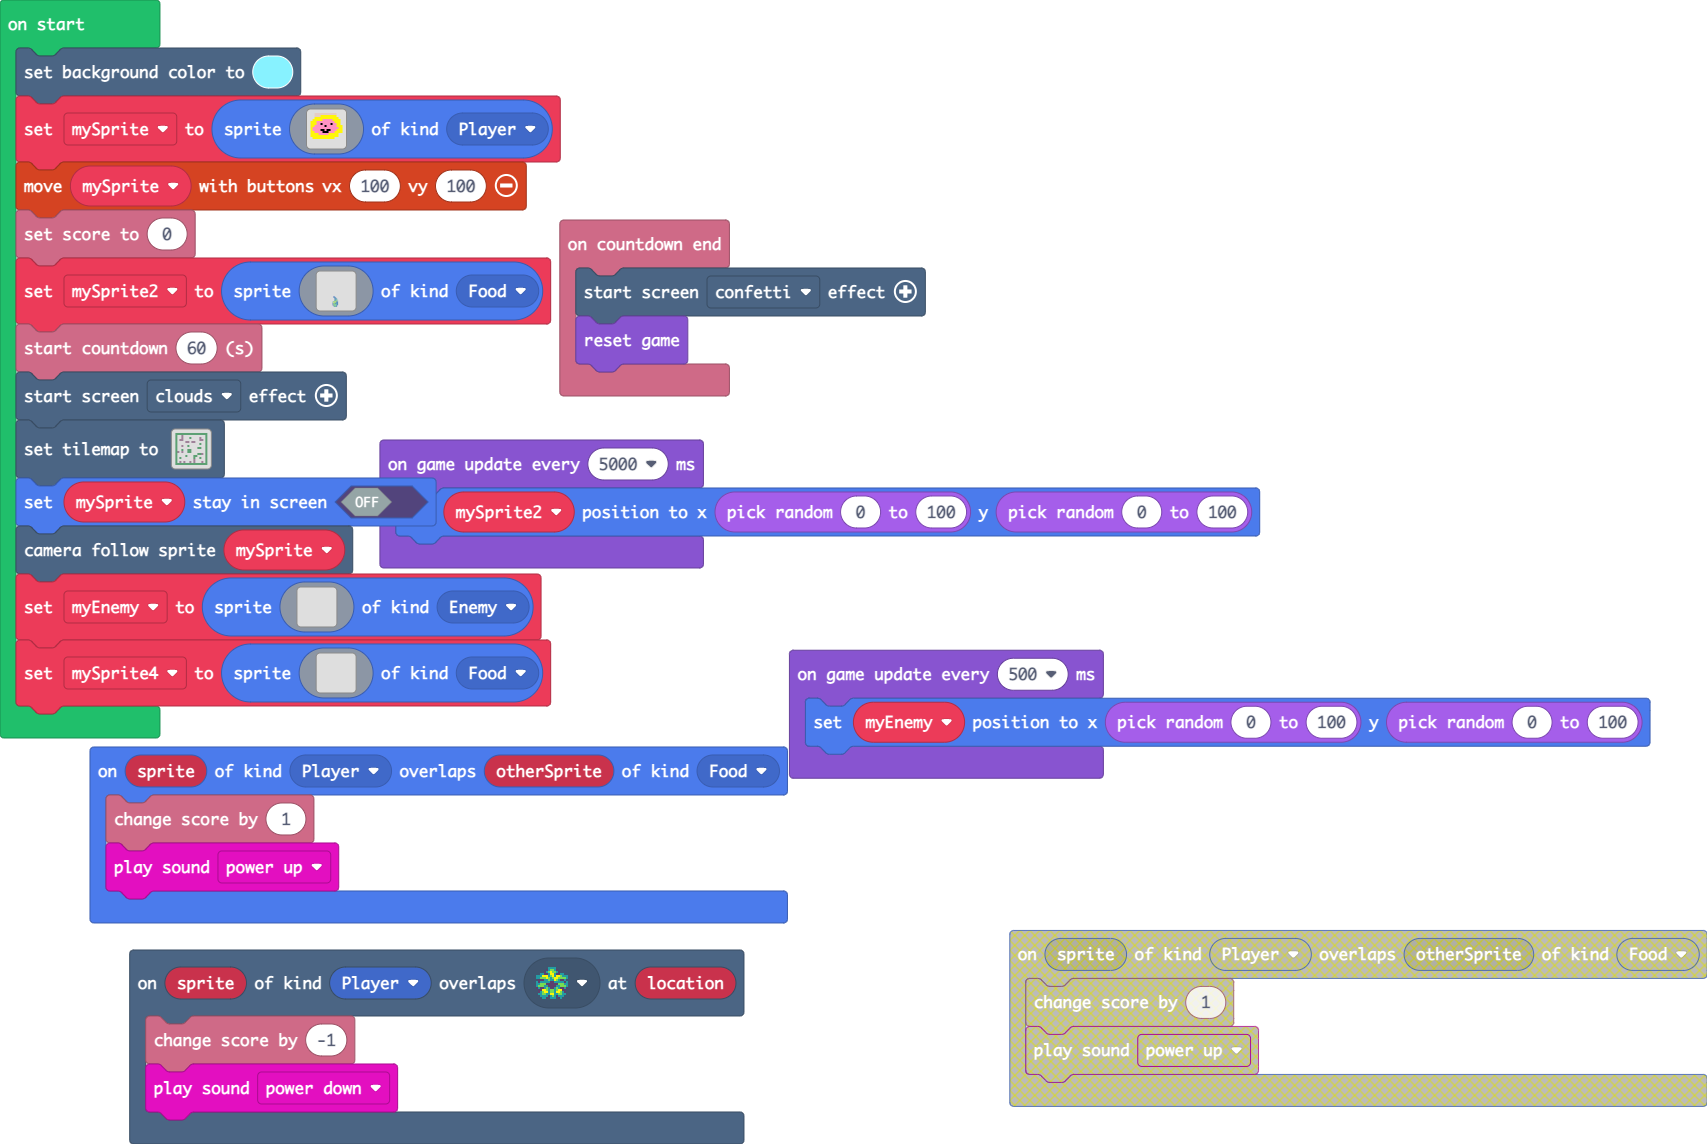
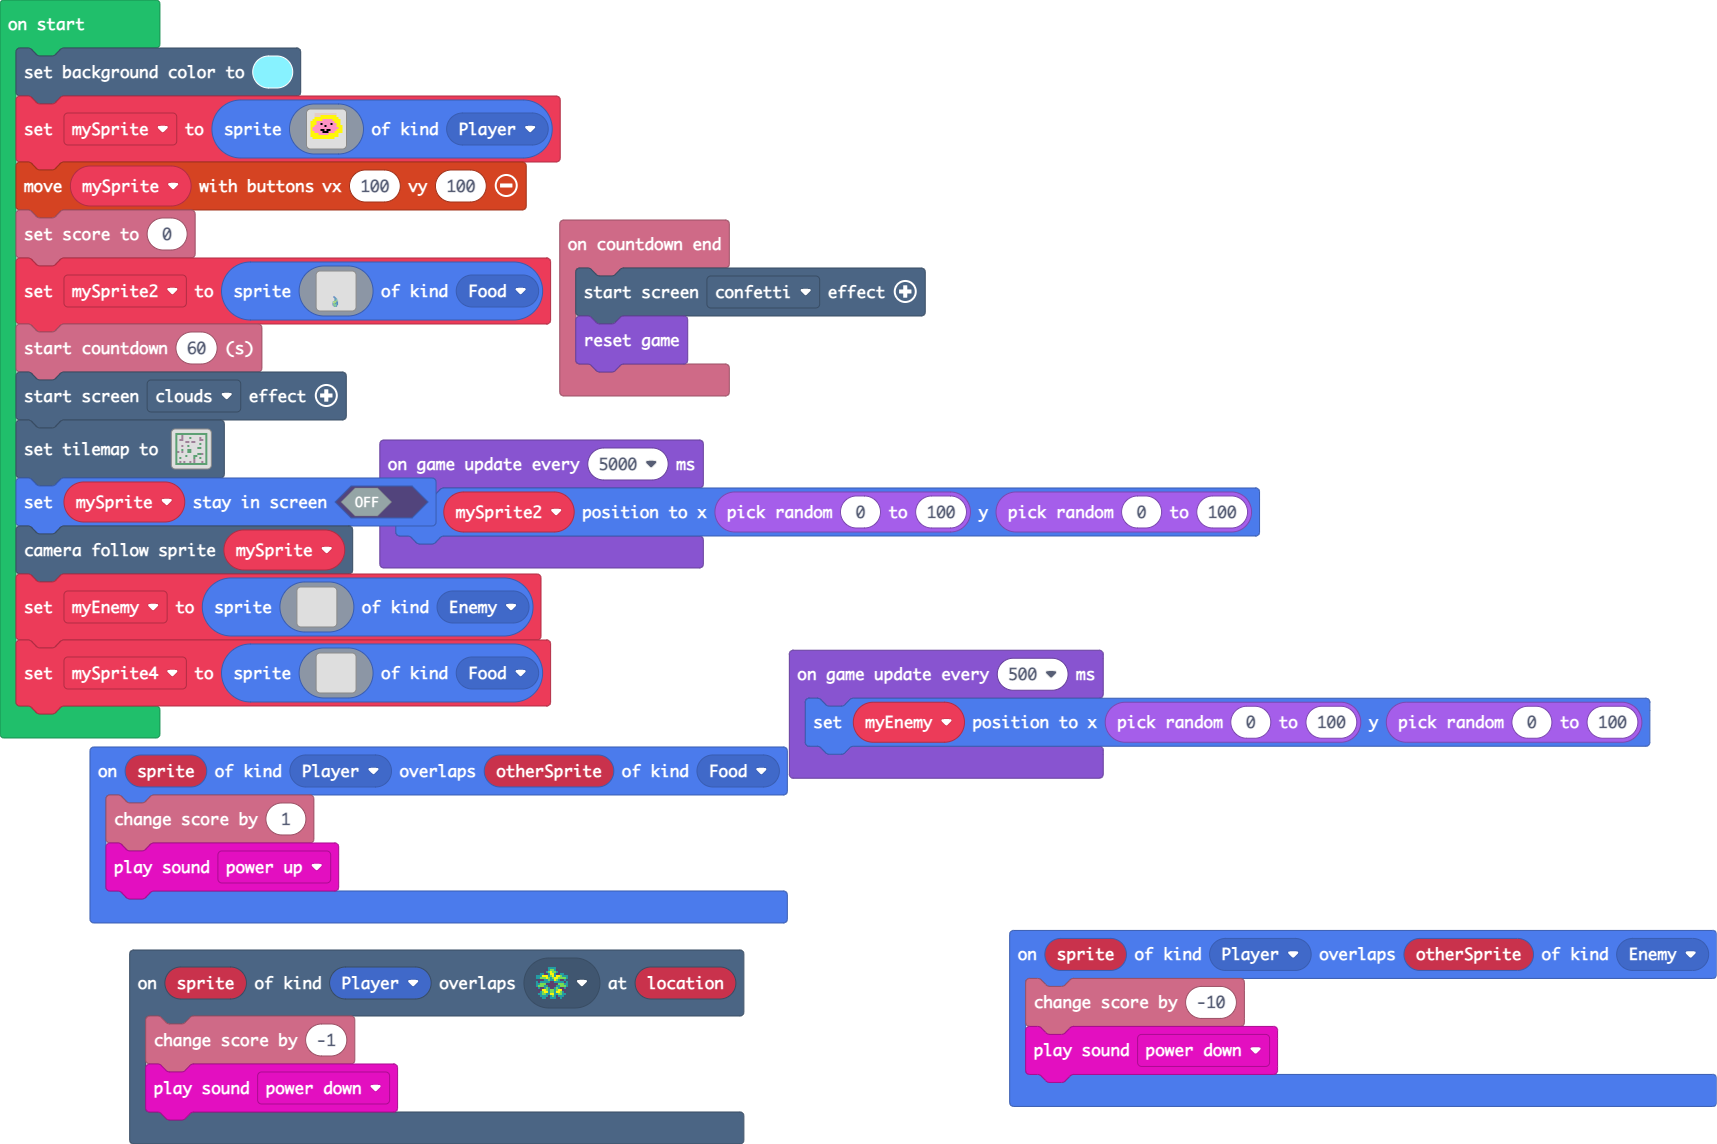
Update main.blocks, main.ts, images.g.jres, images.g.ts

diff --git a/images.g.ts b/images.g.ts
@@ -72,80 +72,40 @@ namespace myImages {
 ......8768......
 `;
             case "image3":return img`
-........................
-........................
-........................
-........................
-..........fffff.........
-........ff1111bff.......
-.......fb1111111bf......
-.......f111111111f......
-......fd1111111ffff.....
-......fd111dd1c111bf....
-......fb11fcdf1b1bff....
-......f11111bfbfbff.....
-......f1b1bdfcffff......
-......fbfbfcfcccf.......
-......ffffffffff........
-.........ffffff.........
-.........ffffff.........
-.........fffffff..f.....
-..........fffffffff.....
-...........fffffff......
-........................
-........................
-........................
-........................
+. . . . . . . . . . . . . . . . 
+. . . . . . . . . . . . . . . . 
+. . . . . . . . . . . . . . . . 
+. . . . . . . . . . . . . . . . 
+. . . . . . . . . . . . . . . . 
+. . . . . . . . . . . . . . . . 
+. . . . . . . . . . . . . . . . 
+. . . . . . . . . . . . . . . . 
+. . . . . . . . . . . . . . . . 
+. . . . . . . . . . . . . . . . 
+. . . . . . . . . . . . . . . . 
+. . . . . . . . . . . . . . . . 
+. . . . . . . . . . . . . . . . 
+. . . . . . . . . . . . . . . . 
+. . . . . . . . . . . . . . . . 
+. . . . . . . . . . . . . . . . 
 `;
             case "image4":return img`
-................
-................
-................
-................
-................
-................
-................
-................
-................
-................
-................
-................
-................
-................
-................
-................
-................
-................
-................
-................
-................
-................
-................
-................
-................
-................
-................
-................
-................
-................
-................
-................
-.....88.........
-.....868........
-......868.......
-.......868......
-.......866......
-.......8676.....
-......67656.....
-.....656758.....
-....65775868....
-....65656868....
-....87678868....
-....87678668....
-....87677668....
-....8776768.....
-.....87678......
-......8768......
+. . . . . . . . . . . . . . . . 
+. . . . . . . . . . . . . . . . 
+. . . . . . . . . . . . . . . . 
+. . . . . . . . . . . . . . . . 
+. . . . . . . . . . . . . . . . 
+. . . . . . . . . . . . . . . . 
+. . . . . . . . . . . . . . . . 
+. . . . . . . . . . . . . . . . 
+. . . . . . . . . . . . . . . . 
+. . . . . . . . . . . . . . . . 
+. . . . . . . . . . . . . . . . 
+. . . . . . . . . . . . . . . . 
+. . . . . . . . . . . . . . . . 
+. . . . . . . . . . . . . . . . 
+. . . . . . . . . . . . . . . . 
+. . . . . . . . . . . . . . . . 
 `;
         }
         return null;

diff --git a/main.ts b/main.ts
@@ -10,6 +10,10 @@ sprites.onOverlap(SpriteKind.Player, SpriteKind.Food, function (sprite, otherSpr
     info.changeScoreBy(1)
     music.powerUp.play()
 })
+sprites.onOverlap(SpriteKind.Player, SpriteKind.Enemy, function (sprite, otherSprite) {
+    info.changeScoreBy(-10)
+    music.powerDown.play()
+})
 scene.setBackgroundColor(9)
 let mySprite = sprites.create(img`
     . . d d d d d d d d d d d . . . 
